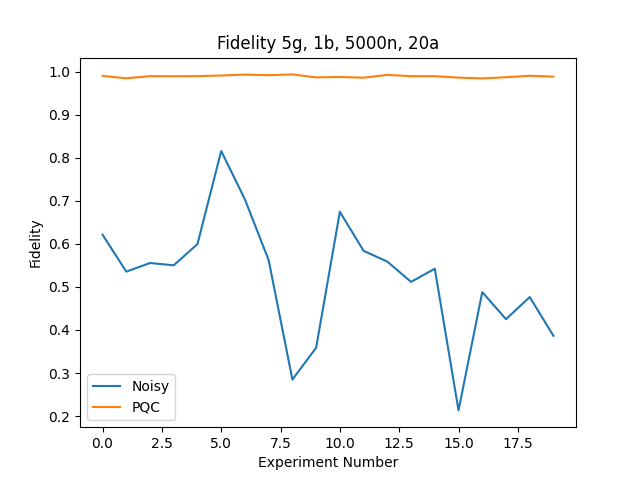
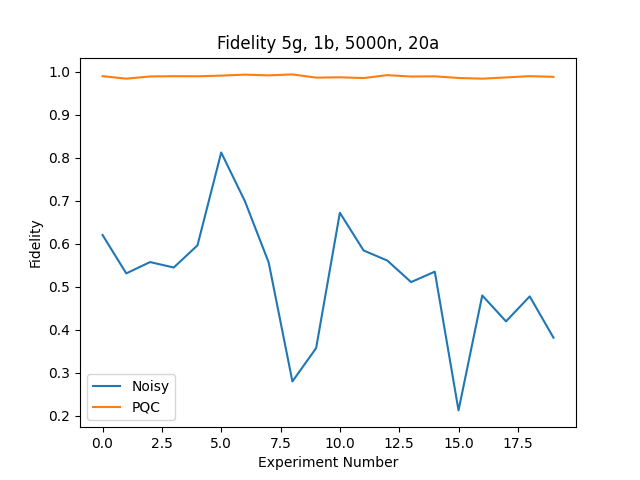
Using NP Random State for more accurate reporducibility.

diff --git a/pqcqec/noise/simple_noise.py b/pqcqec/noise/simple_noise.py
@@ -2,6 +2,8 @@ import jax
 import jax.numpy as jnp
 import pennylane as qml
 import numpy as np
+from numpy.random import RandomState
+
 
 class PennylaneNoisyGates:
     def __init__(
@@ -25,8 +27,12 @@ class PennylaneNoisyGates:
         self.z_noise_max = z_rad + self.delta_z
         self.z_noise_min = z_rad - self.delta_z
 
-        self.seed = seed
-        self.x_key, self.z_key = jax.random.split(jax.random.PRNGKey(seed))
+        # self.seed = seed
+        # self.x_key, self.z_key = jax.random.split(jax.random.PRNGKey(seed))
+        if seed is not None:
+            self.rng = RandomState(seed)
+        else:
+            self.rng = RandomState()
 
         self.noisy_gates = {
             "X": self.noisyX, "PauliX": self.noisyX, "x": self.noisyX,
@@ -65,8 +71,8 @@ class PennylaneNoisyGates:
             raise ValueError(f"Gate {gate_name} is not supported by the noisy gates model.")    
 
     def apply_noise(self, wires):
-        x_noise = np.random.uniform(size=(len(wires),), low=self.x_noise_min, high=self.x_noise_max)
-        z_noise = np.random.uniform(size=(len(wires),), low=self.z_noise_min, high=self.z_noise_max)
+        x_noise = self.rng.uniform(size=(len(wires),), low=self.x_noise_min, high=self.x_noise_max)
+        z_noise = self.rng.uniform(size=(len(wires),), low=self.z_noise_min, high=self.z_noise_max)
 
         for i, wire in enumerate(wires):
             # Apply the noisy X gate with random over-rotation
